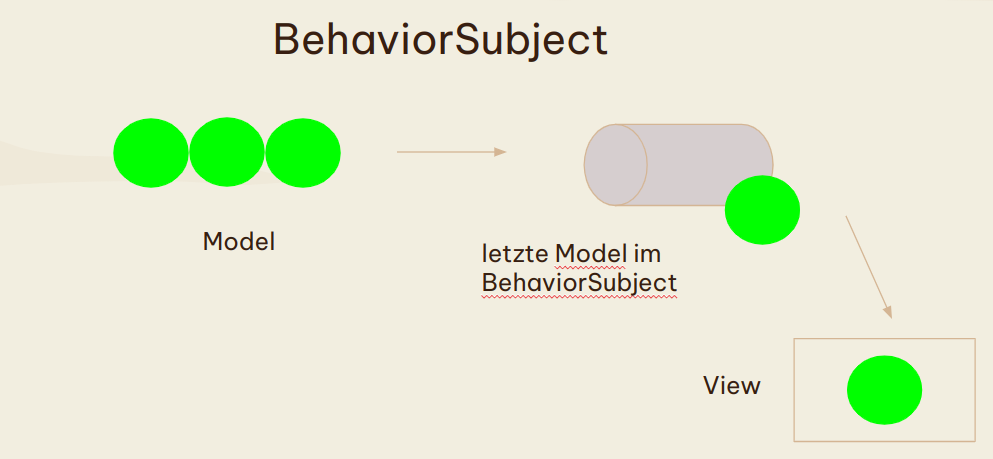
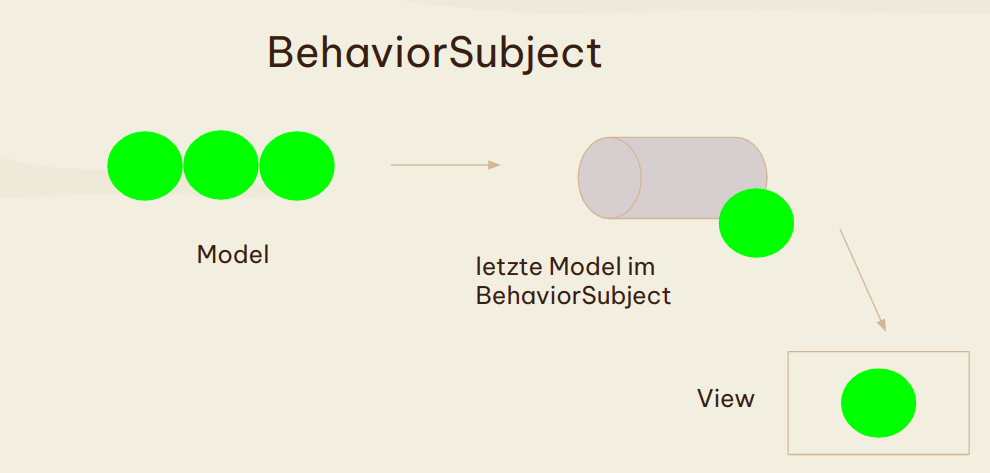
Deploying to gh-pages from @ 2425-5bhif-wmc/01-referate-CaoAnton@a4b99661767c1efe0d40ac11c5b6f3cfad62b4ca 🚀

diff --git a/index.html b/index.html
@@ -556,7 +556,7 @@ pre.rouge .gs {
 <div class="details">
 <span id="author" class="author">Anton Cao</span><br>
 <span id="revnumber">version 1.0,</span>
-<span id="revdate">2025-01-13</span>
+<span id="revdate">2025-01-14</span>
 </div>
 <div id="toc" class="toc2">
 <div id="toctitle">Table of Contents</div>
@@ -2011,7 +2011,7 @@ abgeschlossen ist, gibt es den letzten Wert des Observables zurück (in diesem F
 </div>
 <div class="imageblock">
 <div class="content">
-<img src="images/viewmodel.png" alt="viewmodel">
+<img src="images/pipe.png" alt="pipe">
 </div>
 </div>
 </div>
@@ -2569,7 +2569,7 @@ Beispiel: Zahlen und Buchstaben zu Paaren kombinieren.</p>
 <div id="footer">
 <div id="footer-text">
 Version 1.0<br>
-Last updated 2025-01-13 23:17:55 UTC
+Last updated 2025-01-14 08:28:48 UTC
 </div>
 </div>
 </body>

diff --git a/sysspec.html b/sysspec.html
@@ -442,7 +442,7 @@ body.book #toc,body.book #preamble,body.book h1.sect0,body.book .sect1>h2{page-b
 <div class="details">
 <span id="author" class="author">firstname lastname</span><br>
 <span id="revnumber">version 1.0.0,</span>
-<span id="revdate">2025-01-13</span>
+<span id="revdate">2025-01-14</span>
 <br><span id="revremark">Some notes</span>
 </div>
 <div id="toc" class="toc2">
@@ -578,7 +578,7 @@ body.book #toc,body.book #preamble,body.book h1.sect0,body.book .sect1>h2{page-b
 <div id="footer">
 <div id="footer-text">
 Version 1.0.0<br>
-Last updated 2025-01-13 23:17:55 UTC
+Last updated 2025-01-14 08:28:48 UTC
 </div>
 </div>
 </body>

diff --git a/minutes-of-meeting.html b/minutes-of-meeting.html
@@ -442,7 +442,7 @@ body.book #toc,body.book #preamble,body.book h1.sect0,body.book .sect1>h2{page-b
 <div class="details">
 <span id="author" class="author">firstname lastname</span><br>
 <span id="revnumber">version 1.0,</span>
-<span id="revdate">2025-01-13</span>
+<span id="revdate">2025-01-14</span>
 <br><span id="revremark">Some notes</span>
 </div>
 <div id="toc" class="toc2">
@@ -601,7 +601,7 @@ Ev. mit Erläuterungen</p>
 <div id="footer">
 <div id="footer-text">
 Version 1.0<br>
-Last updated 2025-01-13 23:17:55 UTC
+Last updated 2025-01-14 08:28:48 UTC
 </div>
 </div>
 </body>

diff --git a/demo.html b/demo.html
@@ -556,7 +556,7 @@ pre.rouge .gs {
 <div class="details">
 <span id="author" class="author">Thomas W. Stütz</span><br>
 <span id="revnumber">version 1.0,</span>
-<span id="revdate">2025-01-13</span>
+<span id="revdate">2025-01-14</span>
 </div>
 <div id="toc" class="toc2">
 <div id="toctitle">Table of Contents</div>
@@ -775,7 +775,7 @@ A -left-&gt; B
 <div id="footer">
 <div id="footer-text">
 Version 1.0<br>
-Last updated 2025-01-13 23:17:55 UTC
+Last updated 2025-01-14 08:28:48 UTC
 </div>
 </div>
 </body>
